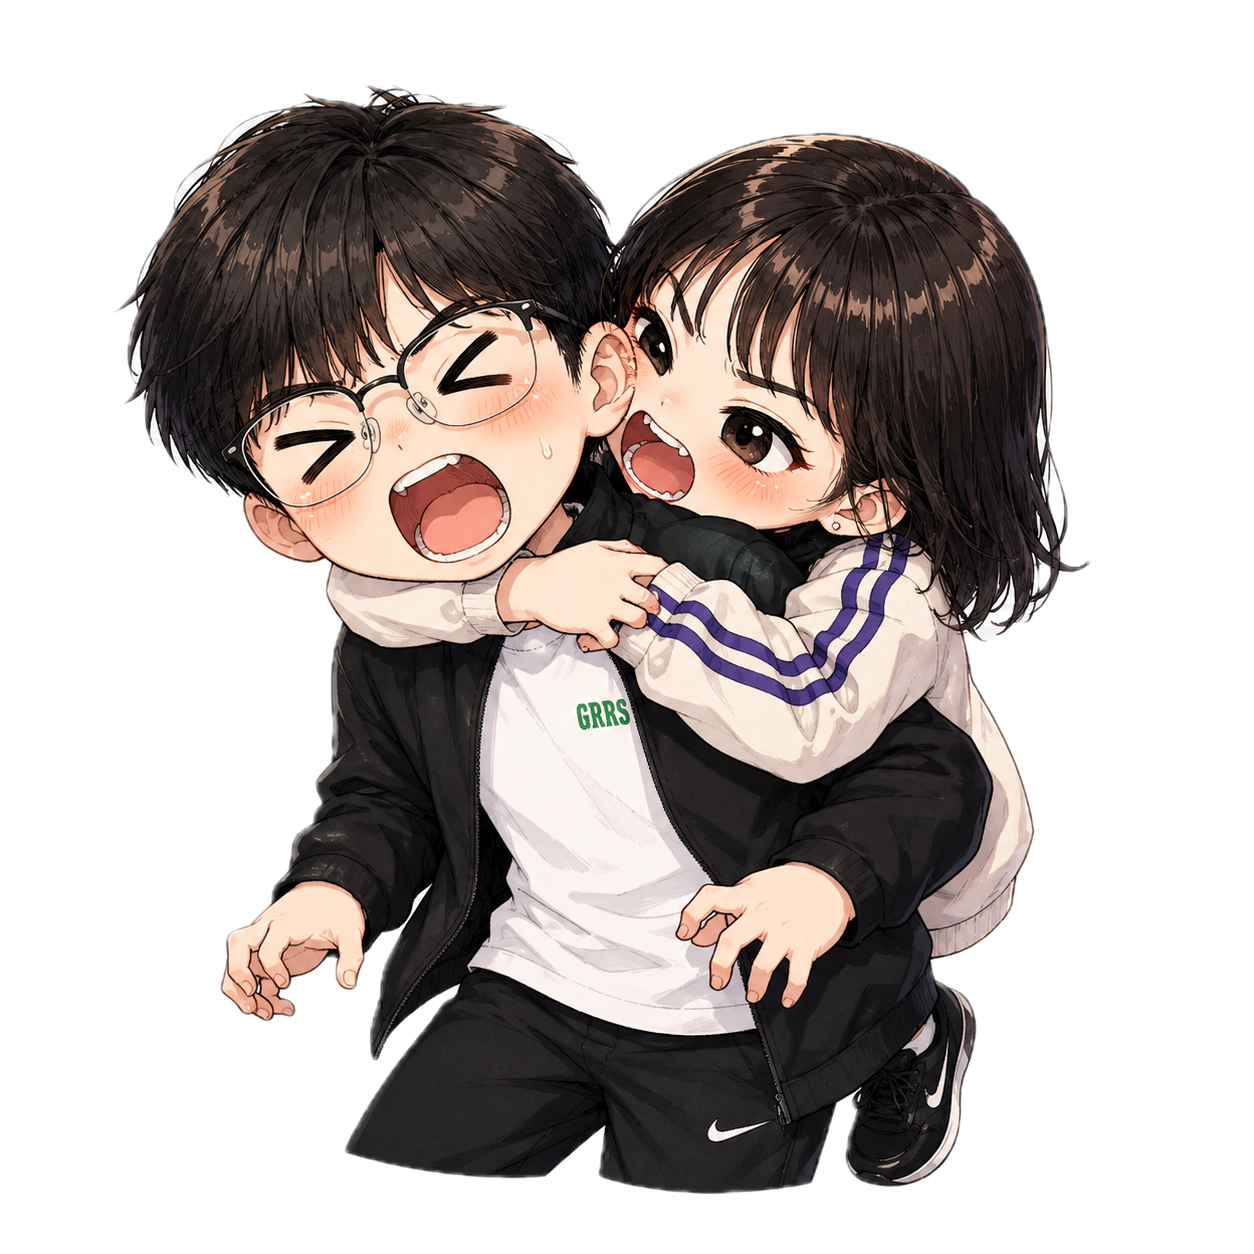
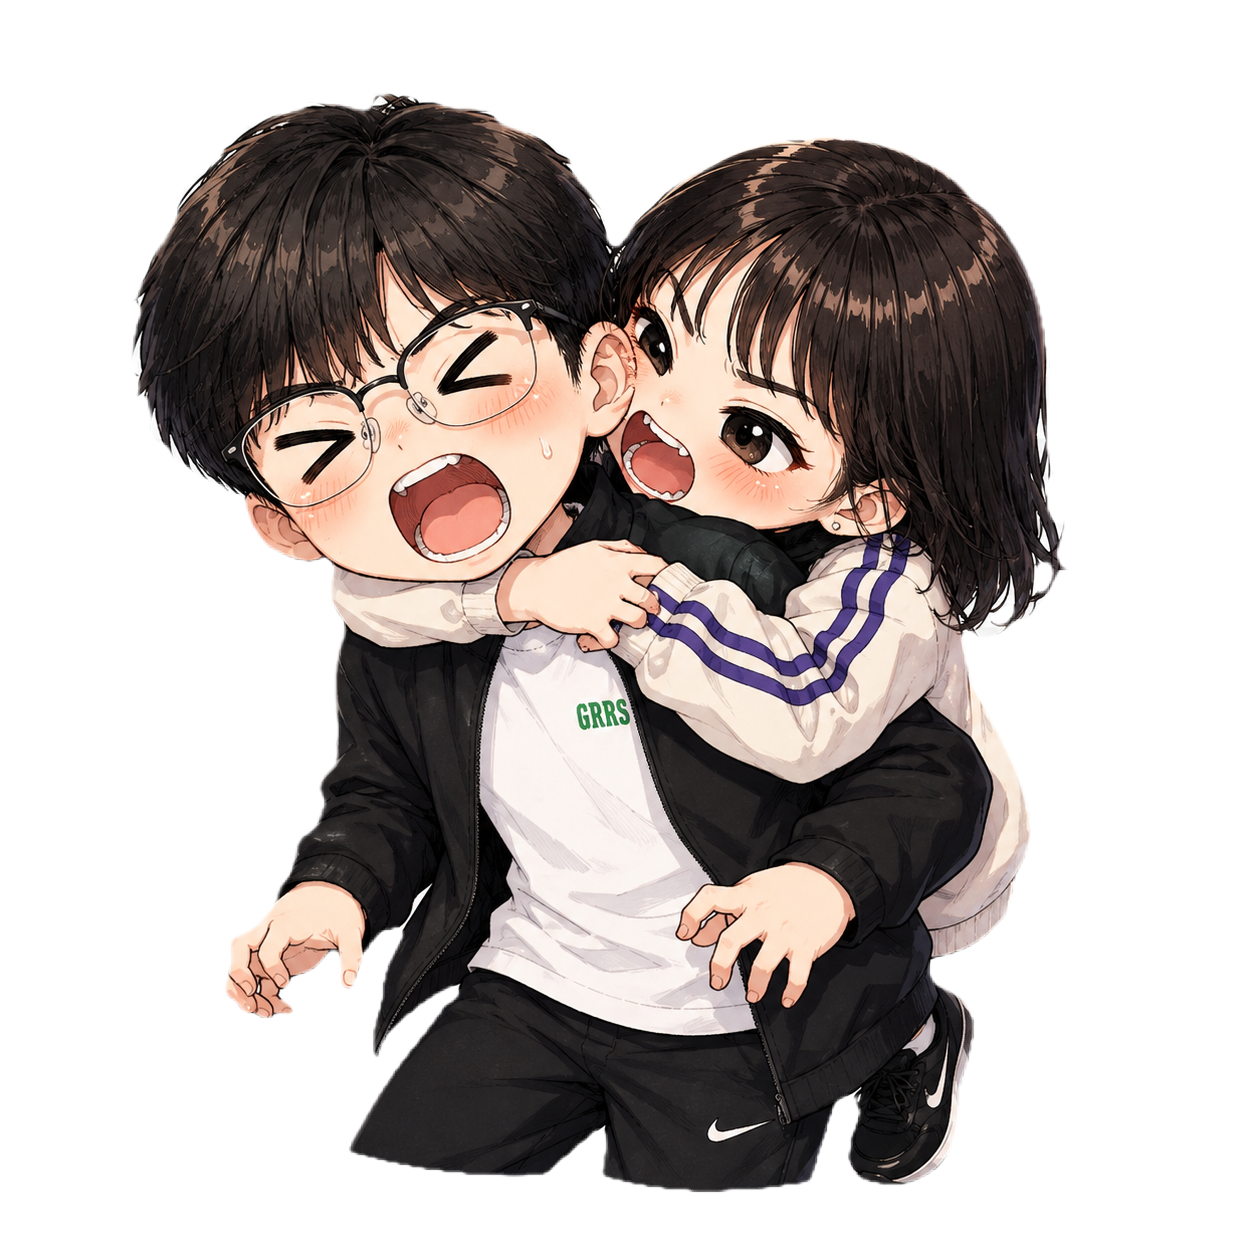
chore: 이미지 정리

diff --git a/client/src/pages/Home.tsx b/client/src/pages/Home.tsx
@@ -1,13 +1,12 @@
 /*
- * Home.tsx — 프로포즈 사이트 인트로 페이지
+ * Home.tsx — 인트로 페이지
  * 디자인: 네이비 밤하늘 + 전구 조명 + 카와이 일러스트 + 골드 포인트
- * 레퍼런스: 서울 여행 지도 스타일 (memory-card-bg.png)
- * 영서(여자친구) → 진성(남자친구) 프로포즈
  */
 import { useState, useEffect } from "react";
 import { useLocation } from "wouter";
 
-const COUPLE_IMG = "/webdev-static-assets/character-couple-v5.png";
+const COUPLE_IMG = "/webdev-static-assets/caricature-selfsnap_nobg.png";
+// const COUPLE_IMG = "/webdev-static-assets/character-couple-v5.png";
 const MAP_PREVIEW = "/webdev-static-assets/travel-map-v4.png";
 
 // 별 위치 고정 (랜덤 방지)
@@ -154,7 +153,7 @@ export default function Home() {
             }}
           >
             <span style={{ color: "oklch(0.78 0.14 55)", fontSize: "0.75rem", fontFamily: "'Gowun Dodum', sans-serif", letterSpacing: "0.1em" }}>
-              ✦ 우리의 여행 ✦
+              ✦ 행복했던 시간들 톺아보기 ✦
             </span>
           </div>
           <h1
@@ -214,7 +213,7 @@ export default function Home() {
         >
           <p style={{ color: "oklch(0.88 0.03 60)", fontSize: "0.9rem", lineHeight: 1.7, fontFamily: "'Noto Sans KR', sans-serif" }}>
             우리가 함께한 소중한 순간들을<br />
-            게임으로 되돌아보는 여행이야 🗺
+            되돌아보는 여행이야 🗺
           </p>
           <div
             style={{
